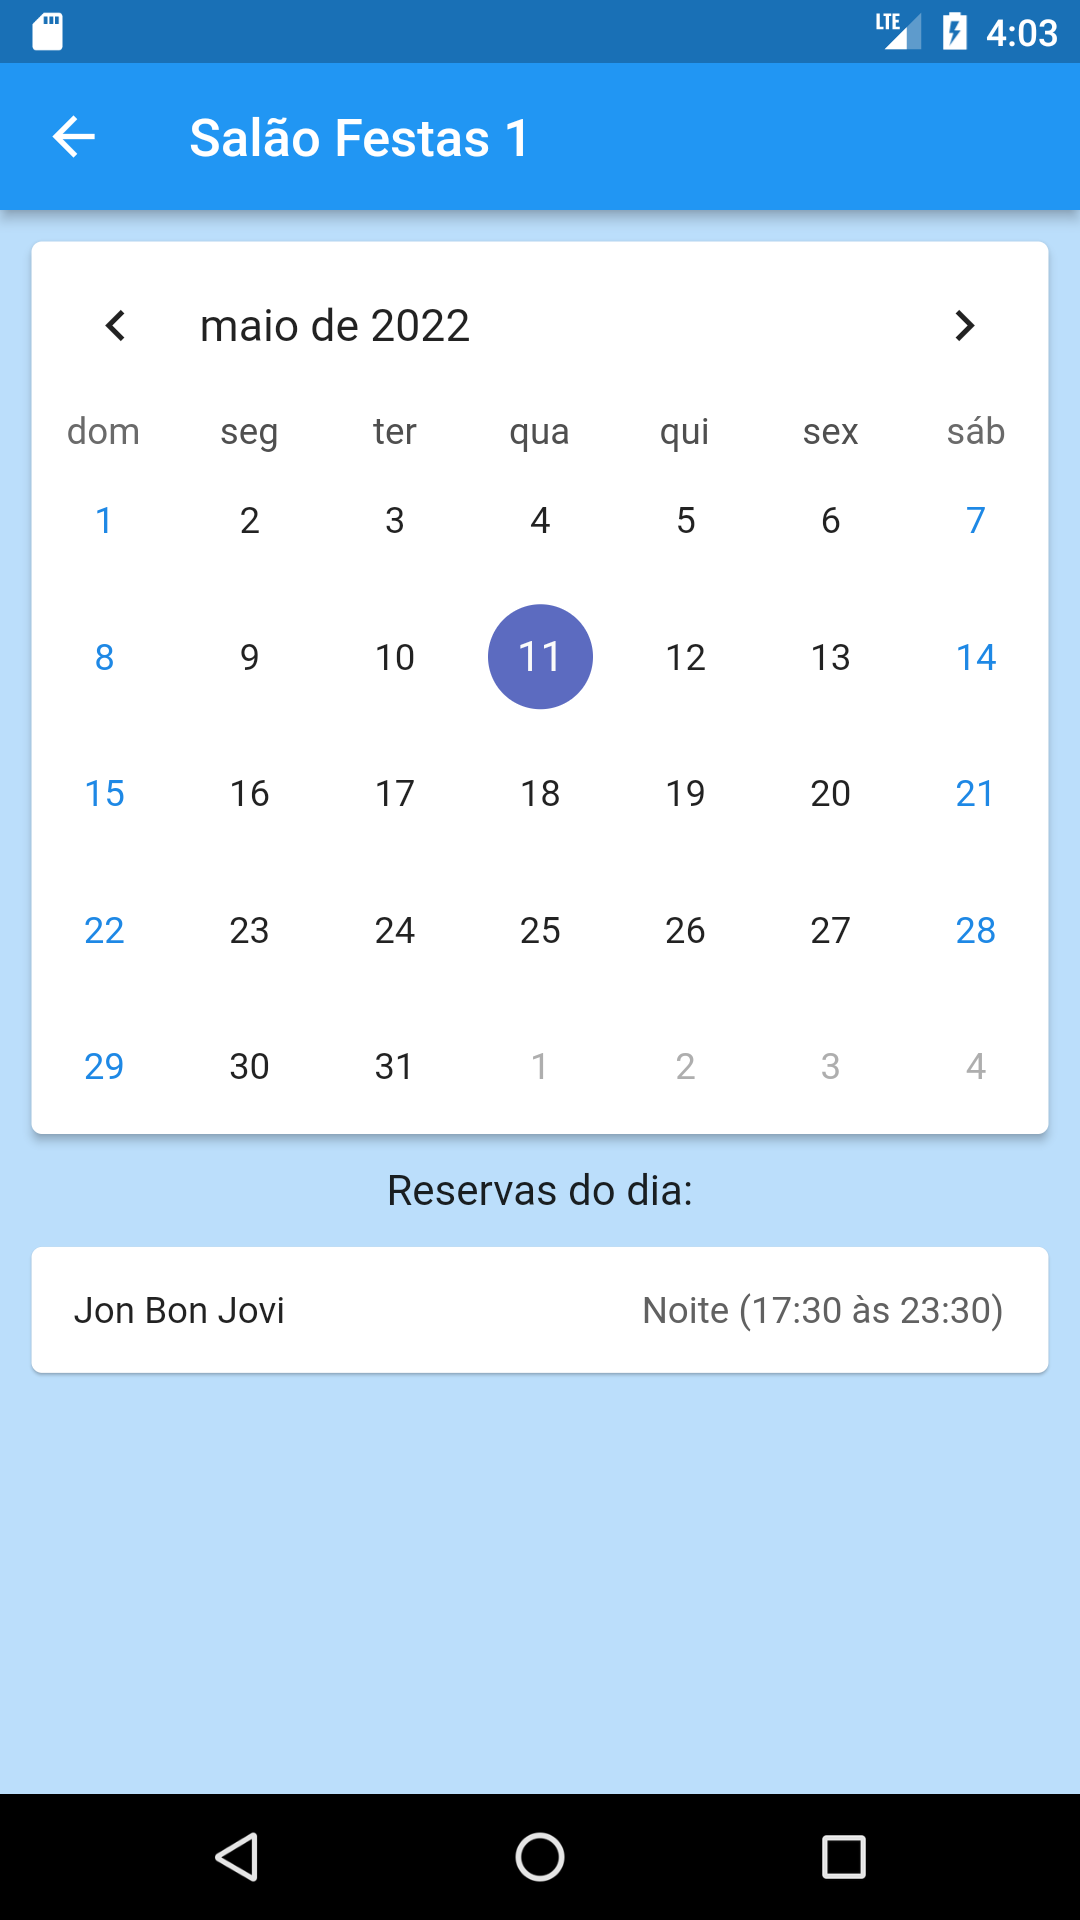
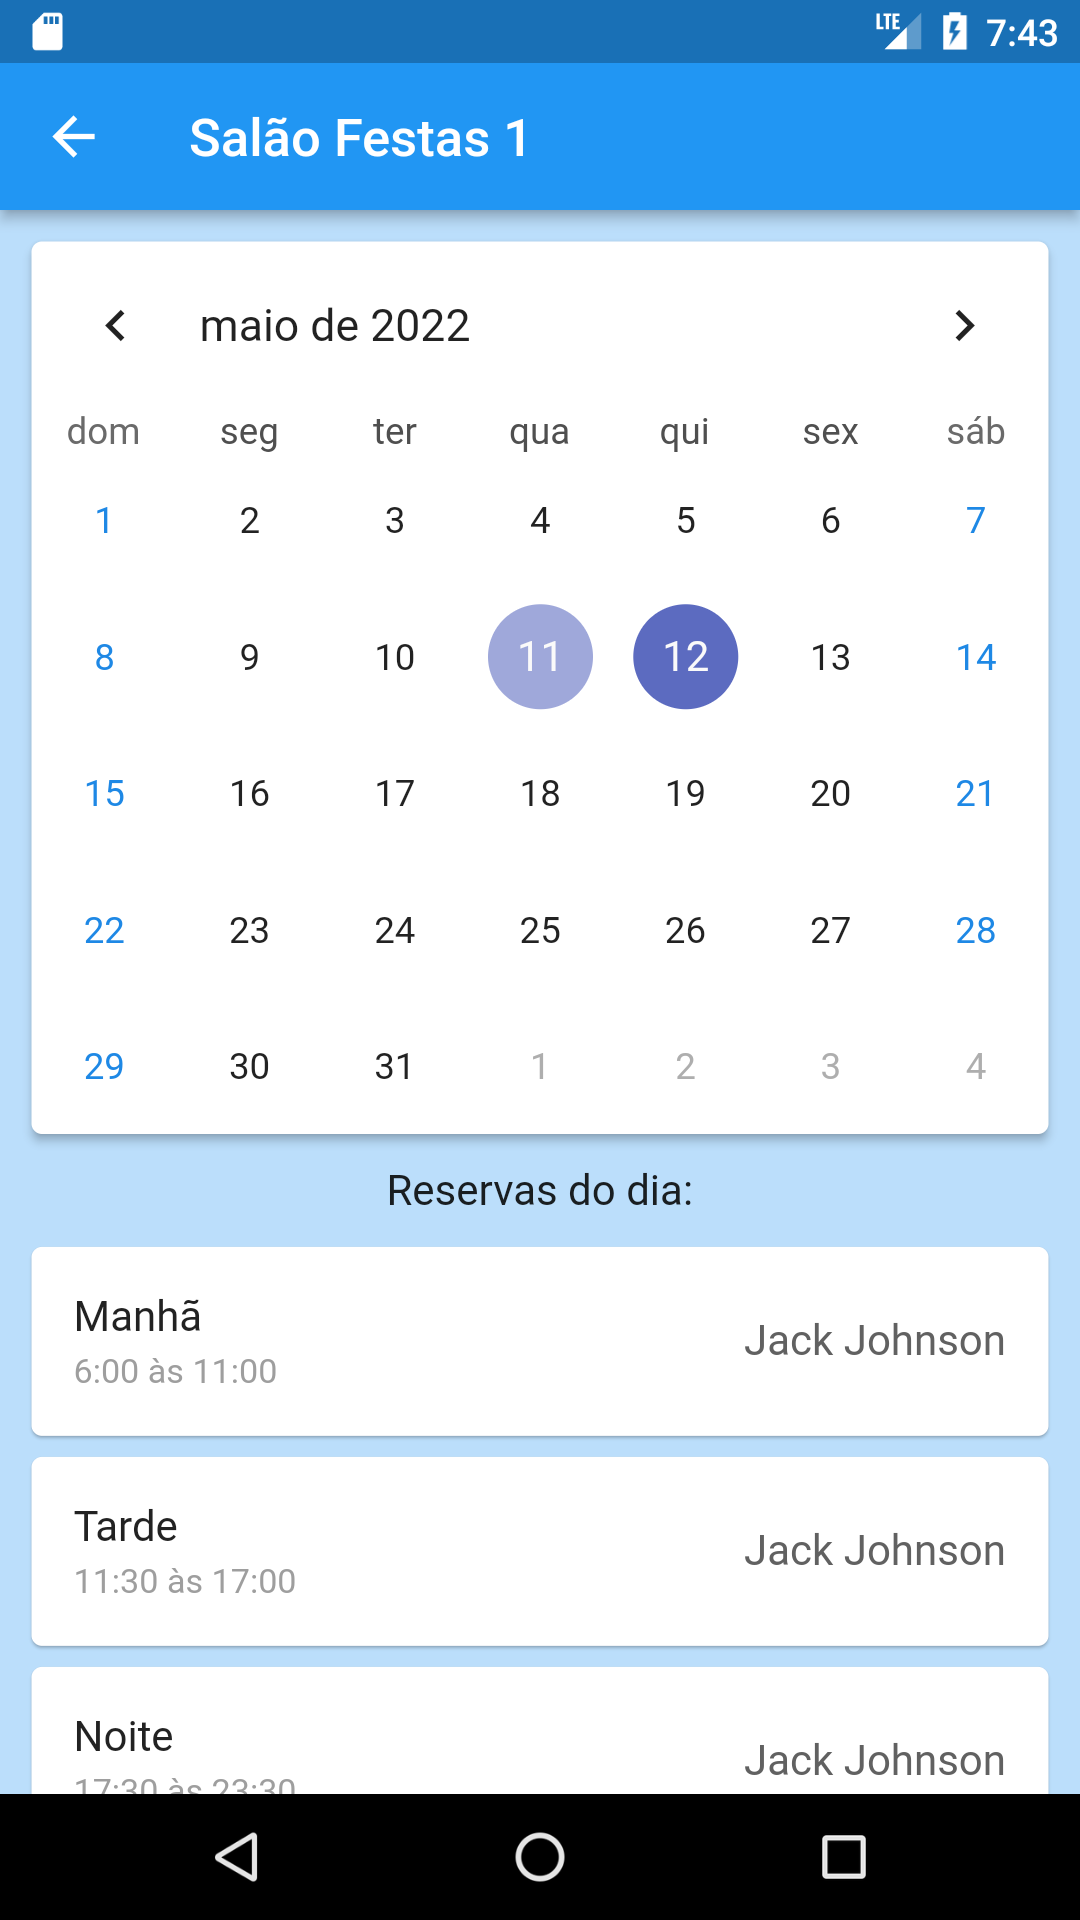
Melhorias na tela de reserva

diff --git a/lib/tela_reservas.dart b/lib/tela_reservas.dart
@@ -1,6 +1,7 @@
 import 'package:app_condominios/model.dart';
 import 'package:app_condominios/server.dart';
 import 'package:app_condominios/utils.dart';
+import 'package:app_condominios/extensions.dart';
 import 'package:flutter/material.dart';
 import 'package:table_calendar/table_calendar.dart';
 
@@ -15,8 +16,10 @@ class TelaReservas extends StatefulWidget {
 }
 
 class _TelaReservasState extends State<TelaReservas> {
+  final hoje = today();
   final minData = today().subtract(const Duration(days: 30));
   final maxData = today().add(const Duration(days: 60));
+  final List<Periodo> _periodos = Periodo.values;
   DateTime _dataFocada = today();
   DateTime? _dataSelecionada;
   List<Reserva>? _reservas;
@@ -34,14 +37,12 @@ class _TelaReservasState extends State<TelaReservas> {
       _buildCardCalendario(),
       const Text('Reservas do dia:', style: TextStyle(fontSize: 16.0)),
       Expanded(
-          child: (_reservas?.isNotEmpty) == true
-              ? _buildListView()
-              : _buildMsgSemReservas())
+          child: _reservas != null ? _buildListView() : _buildMsgSemReservas())
     ]);
   }
 
   Widget _buildMsgSemReservas() {
-    if(_dataSelecionada!= null && _reservas == null){
+    if (_dataSelecionada != null && _reservas == null) {
       return buildWidgetAguarde();
     }
     return Column(
@@ -50,32 +51,60 @@ class _TelaReservasState extends State<TelaReservas> {
         children: [
           Icon(Icons.info_outline, size: 60.0, color: Colors.blue.shade400),
           const SizedBox(height: 10.0),
-          Text(_dataSelecionada == null
-              ? 'Selecione uma data \npara ver as reservas.'
-              : 'Não há reservas para \n o dia ${ddMMyyyy.format(_dataSelecionada!)}.')
+          Text('Selecione uma data \npara ver as reservas.',
+              style: TextStyle(fontSize: 20.0))
         ]);
   }
 
   ListView _buildListView() {
     return ListView.builder(
         padding: const EdgeInsets.all(8.0),
-        itemCount: _reservas!.length,
+        itemCount: _periodos.length,
         itemBuilder: _buildItem);
   }
 
   Widget _buildItem(BuildContext context, int index) {
-    final reserva = _reservas![index];
-    final periodo = reserva.periodo;
+    final periodo = _periodos[index];
+    final reserva = _reservas!.firstWhereOnNull((r) => r.periodo == periodo);
     return Card(
-        child: Padding(
-      padding: const EdgeInsets.all(16.0),
-      child: Row(children: [
-        Text(reserva.morador?.nome ?? '?'),
-        const Spacer(),
-        Text('${periodoToStr(periodo)} (${periodoToStrHora(periodo)})',
-            style: TextStyle(color: Colors.grey.shade700))
-      ]),
-    ));
+        child: ListTile(
+            onTap: reserva == null && _dataSelecionada!.isAfterOrEquals(hoje)
+                ? () => _onTapItem(periodo)
+                : null,
+            leading: _buildDeleteIcon(reserva),
+            title: Text(periodoToStr(periodo) ?? '?',
+                style: const TextStyle(fontSize: 16.0)),
+            subtitle: Text(periodoToStrHora(periodo) ?? '?',
+                style: TextStyle(fontSize: 13.0, color: Colors.grey.shade500)),
+            trailing: reserva == null
+                ? _buildTrailingSemReserva()
+                : Text(reserva.morador?.nome ?? '?',
+                    style: TextStyle(
+                        color: Colors.grey.shade700, fontSize: 16.0))));
+  }
+
+  Widget? _buildDeleteIcon(Reserva? reserva) {
+    if (reserva == null ||
+        reserva.morador?.id != widget.sessao.usuario?.morador?.id) {
+      return null;
+    }
+    return IconButton(
+        onPressed: _onRemoverReserva,
+        icon: Icon(Icons.delete_outline, color: Colors.grey.shade500));
+  }
+
+
+
+  Widget _buildTrailingSemReserva() {
+    if (_dataSelecionada!.isBefore(hoje)) {
+      return Text('Sem Reserva.',
+          style: TextStyle(color: Colors.grey.shade500));
+    }
+    return const Chip(
+        backgroundColor: Colors.green,
+        visualDensity: VisualDensity.compact,
+        label: Text('Reservar!',
+            style: TextStyle(color: Colors.white, fontSize: 16.0)));
   }
 
   Card _buildCardCalendario() {
@@ -98,31 +127,73 @@ class _TelaReservasState extends State<TelaReservas> {
 
   void _onDaySelected(DateTime selectedDay, DateTime focusedDay) {
     if (!isSameDay(_dataSelecionada, selectedDay)) {
+      final data = onlyDate(selectedDay);
       setState(() {
-        _dataSelecionada = selectedDay;
-        _dataFocada = selectedDay;
+        _dataSelecionada = data;
+        _dataFocada = data;
         _reservas = null;
       });
-      _fetchReservas().then((value) {
-        setState(() {
-          _reservas = value;
-        });
-      }, onError: (ex) {
-        showMsg(
-            ctx: context,
-            titulo: 'Não foi possivel consultar',
-            mensagem: ex.toString());
-      });
+      _carregarReservas();
     }
   }
 
+  void _carregarReservas() {
+    _fetchReservas().then((value) {
+      setState(() {
+        _reservas = value;
+      });
+    }, onError: (ex) {
+      showMsg(
+          ctx: context,
+          titulo: 'Não foi possivel consultar',
+          mensagem: ex.toString());
+    });
+  }
+
   Future<List<Reserva>> _fetchReservas() async {
-    await Future.delayed(const Duration(seconds: 15));
     return await srvGetReservas(
         full: true,
         dataIni: _dataSelecionada,
         dataFim: _dataSelecionada,
         espacoId: widget.espaco.id,
         token: widget.sessao.token);
+  }
+
+  void _onTapItem(Periodo periodo) {
+    final sessao = widget.sessao;
+    if (sessao.usuario == null || sessao.usuario!.morador == null) {
+      showMsg(
+          ctx: context,
+          titulo: 'Morador Necesário',
+          mensagem: 'Falta os dados do morador na sessão de usuario');
+      return;
+    }
+    Reserva reserva = Reserva(
+        data: _dataSelecionada,
+        espaco: widget.espaco,
+        periodo: periodo,
+        morador: sessao.usuario!.morador!);
+
+    srvPostReserva(reserva, sessao.token).then((value) {
+      _mostrarSnackBarReservaPostada();
+      setState(() {
+        _reservas = null;
+        _carregarReservas();
+      });
+    }, onError: (ex) {
+      showMsg(
+          ctx: context,
+          titulo: 'Não foi posivel postar a reserva',
+          mensagem: ex.toString());
+    });
+  }
+
+  void _mostrarSnackBarReservaPostada() {
+    const data = 'Reserva postada com sucesso!';
+    var ctx = context;
+    showSnackBar(ctx: ctx, data: data);
+  }
+  void _onRemoverReserva(){
+
   }
 }

diff --git a/lib/server.dart b/lib/server.dart
@@ -58,6 +58,22 @@ Future<String> _serverPOST(
   return response.body;
 }
 
+Future<String> _serverDelete({required String endpoint,  String? token}) async {
+
+  final url = Uri.https(urlSrv, endpoint);
+  final headers = token != null ? {'token': token} : null;
+
+  final response = await http.delete(url, headers: headers);
+  final responseBody = utf8.decode(response.bodyBytes);
+
+  if (response.statusCode != statusOk) {
+    throw responseBody;
+    // final Map<String, dynamic> map = json.decode(responseBody);
+    // throw map.containsKey('message') ? map['message'] : '';
+  }
+  return responseBody;
+}
+
 Future<List<Morador>> srvGetMoradores(
     {String? condominioId, String? nome,String? token, bool full = false}) async {
   String response = await _serverGET(endpoint: 'moradores', params: {
@@ -119,7 +135,7 @@ Future<List<Reserva>> srvGetReservas({
   Iterable list = json.decode(response);
   return list.map((m) => Reserva.fromMap(m)).toList();
 }
-
+//Post--------------------------------------------------------------------------
 Future<Sessao> srvPostLogin(String nomeUsuario, String senha) async {
   final strObjLogin =
       json.encode({'nomeUsuario': nomeUsuario, 'senha': toMd5(senha)});
@@ -127,4 +143,11 @@ Future<Sessao> srvPostLogin(String nomeUsuario, String senha) async {
 
   Map<String, dynamic> mapSessao = json.decode(response);
   return Sessao.fromMap(mapSessao);
+}
+
+Future<Reserva> srvPostReserva(Reserva reserva, String? token)async{
+  final body = json.encode(reserva.toMap());
+  String response = await _serverPOST(endpoint: 'reservas', body: body, token: token);
+
+  return Reserva.fromMap(json.decode(response));
 }

diff --git a/lib/model.dart b/lib/model.dart
@@ -269,13 +269,31 @@ class Reserva extends BaseEntity {
 
   Reserva.fromMap(Map<String, dynamic> map) : super.fromMap(map){
     data = map['data'] == null ? null : DateTime.tryParse(map['data']);
-    periodo = periodoToId(map['periodo']);
+    periodo = idToPeriodo(map['periodo']);
     espaco = map['espaco'] == null ? null : Espaco.fromMap(map['espaco']);
     morador = map['morador'] == null ? null : Morador.fromMap(map['morador']);
   }
+
+  Map<String, dynamic> toMap(){
+    return{
+      'id': id,
+      'data': data == null ? null : yyyyMMdd.format(data!),
+      'periodo': periodoToId(periodo),
+      'espaco':{
+        'id': espaco?.id
+      },
+      'morador': {
+        'id': morador?.id
+      },
+    };
+  }
+  @override
+  String toString(){
+    return toMap().toString();
+  }
 }
 enum Periodo { manha, tarde, noite }
-Periodo? periodoToId(int? id) {
+Periodo? idToPeriodo(int? id) {
   if (id == null) {
     return null;
   }
@@ -289,7 +307,7 @@ Periodo? periodoToId(int? id) {
   }
 }
 
-int? idToPeriodo(Periodo? periodo) {
+int? periodoToId(Periodo? periodo) {
   if (periodo == null) {
     return null;
   }

diff --git a/lib/utils.dart b/lib/utils.dart
@@ -50,3 +50,12 @@ Widget buildWidgetAguarde() {
             style: TextStyle(color: Colors.blue.shade800, fontSize: 14.0))
       ]));
 }
+void showSnackBar({required BuildContext ctx, required String data}) {
+  ScaffoldMessenger.of(ctx).showSnackBar(
+      SnackBar(
+          backgroundColor: Colors.yellow,
+          content: Padding(
+            padding: EdgeInsets.all(8.0),
+            child: Text(data, style: TextStyle(color: Colors.black),),
+          )));
+}

diff --git a/lib/extensions.dart b/lib/extensions.dart
@@ -1,0 +1,19 @@
+extension Iterables<E> on Iterable<E>{
+  E? firstWhereOnNull(bool Function(E element) test){
+    for(E element in this){
+      if(test(element)){
+        return element;
+      }
+    }
+    return null;
+  }
+}
+
+extension MyDateTime on DateTime{
+  bool isAfterOrEquals(DateTime other){
+    return !isBefore(other);
+  }
+  bool isBeforeOrEquals(DateTime other){
+    return !isAfter(other);
+  }
+}

diff --git a/lib/tela_sobre.dart b/lib/tela_sobre.dart
@@ -1,0 +1,15 @@
+import 'package:flutter/material.dart';
+
+class TelaSobre extends StatefulWidget {
+  const TelaSobre({Key? key}) : super(key: key);
+
+  @override
+  State<TelaSobre> createState() => _TelaSobreState();
+}
+
+class _TelaSobreState extends State<TelaSobre> {
+  @override
+  Widget build(BuildContext context) {
+    return Container();
+  }
+}
